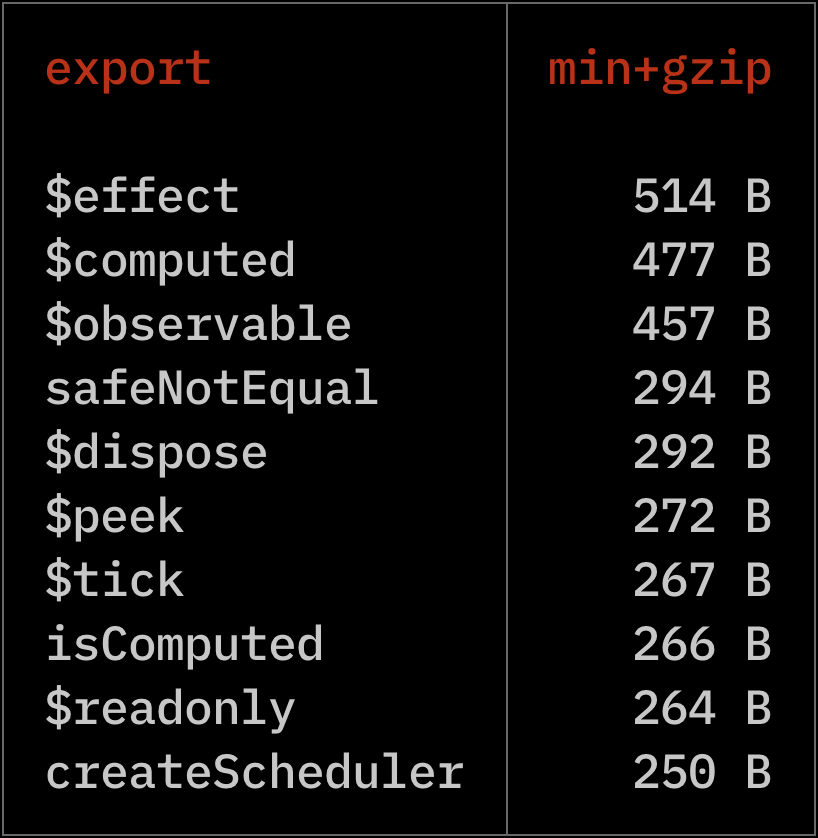
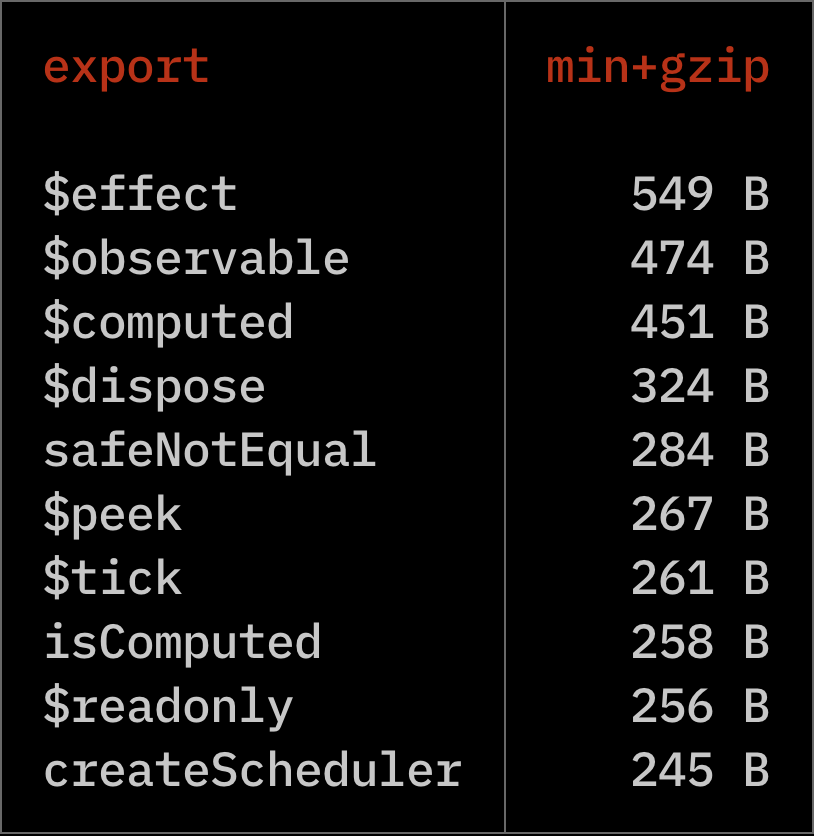
chore: update export sizes

diff --git a/README.md b/README.md
@@ -7,11 +7,11 @@
 > be built on top of. It follows the "lazy principle" that Svelte adheres to - don't
 > do any unnecessary work and don't place the burden of figuring it out on the developer.
 
-This is a tiny (~750B minzipped) library for creating reactive observables via functions. You
+This is a tiny (~850B minzipped) library for creating reactive observables via functions. You
 can use observables to store state, create computed properties (`y = mx + b`), and subscribe to
 updates as its value changes.
 
-- 🪶 Light (~750B minzipped)
+- 🪶 Light (~850B minzipped)
 - 🌎 All types are observable (i.e., string, array, object, etc.)
 - 🕵♀ Only updates when value has changed
 - ⏱ Batched updates via microtask scheduler
@@ -65,7 +65,7 @@ stop();
 
 <img src="./export-sizes.png" alt="Library export sizes" width="250px" />
 
-**Total:** if you import everything it'll be ~750B.
+**Total:** if you import everything it'll be ~850B.
 
 You can also check out the library size on [Bundlephobia][bundlephobia] (less accurate).
 
